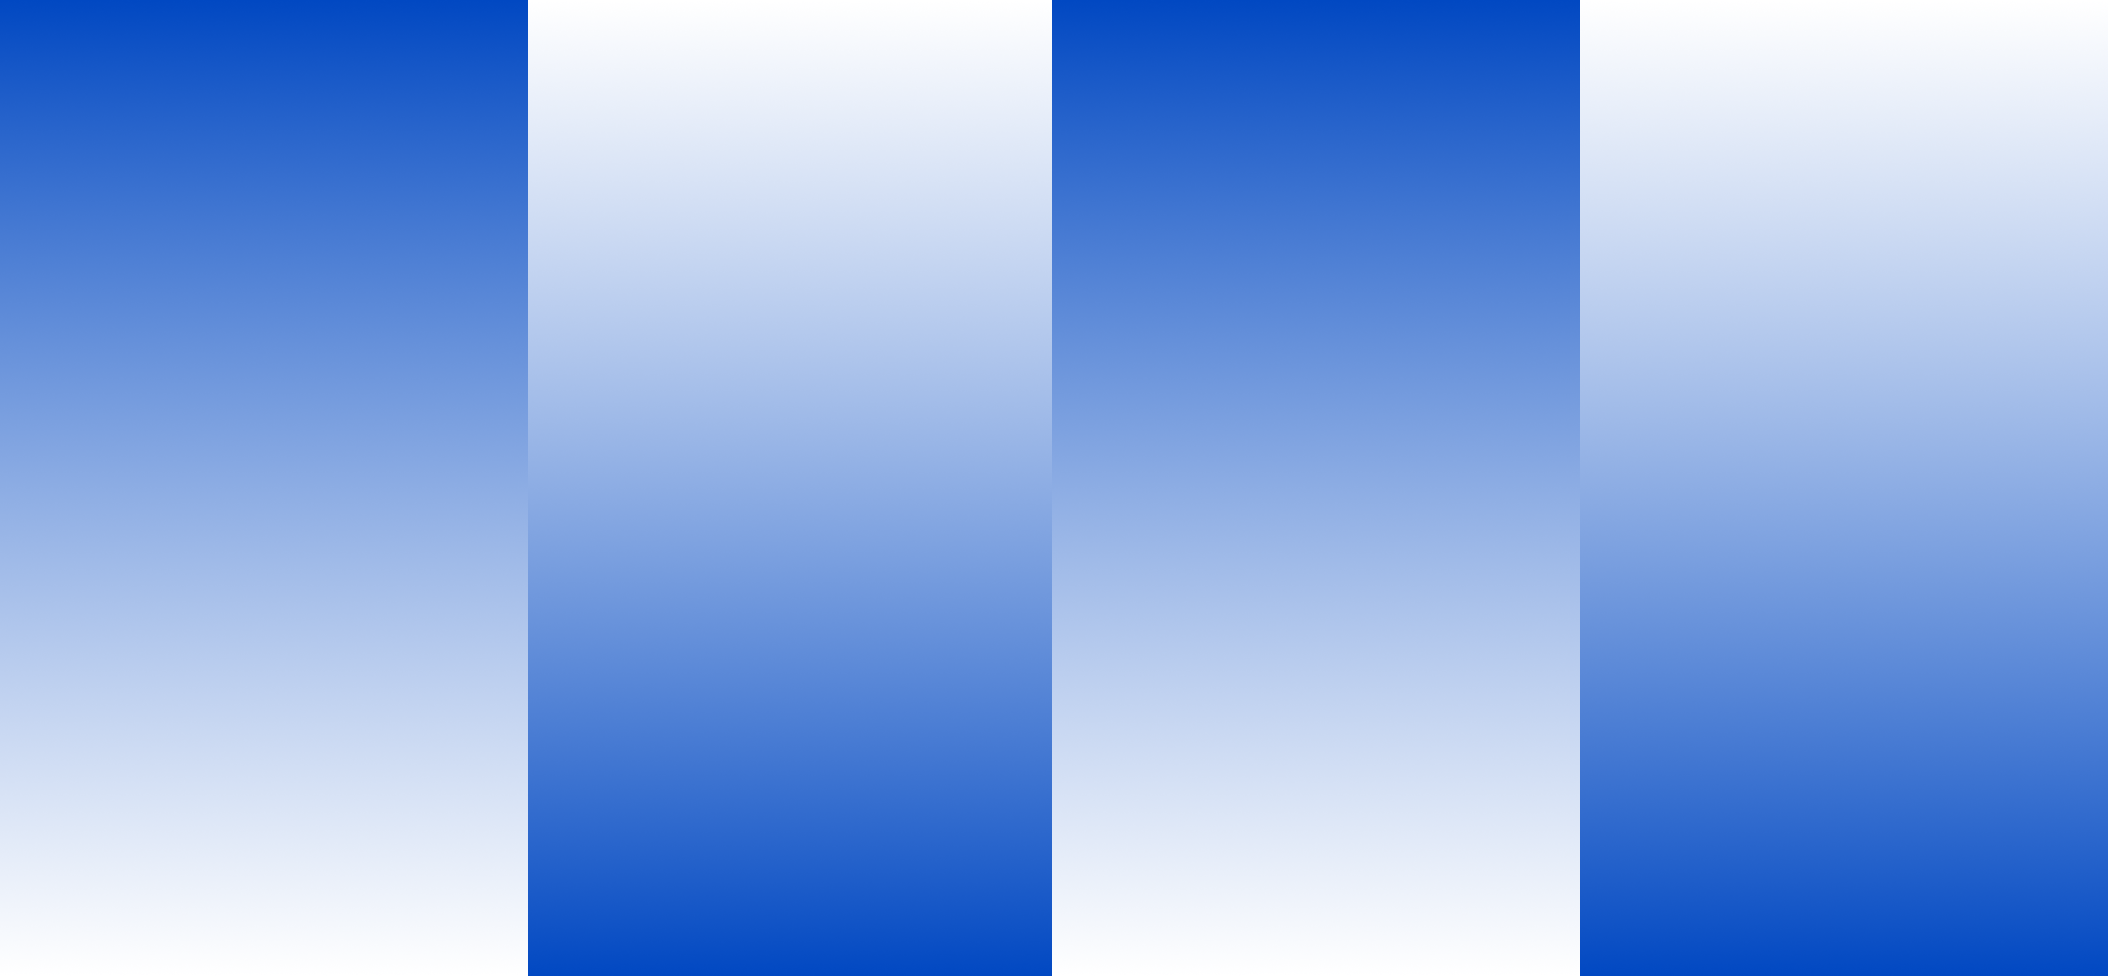
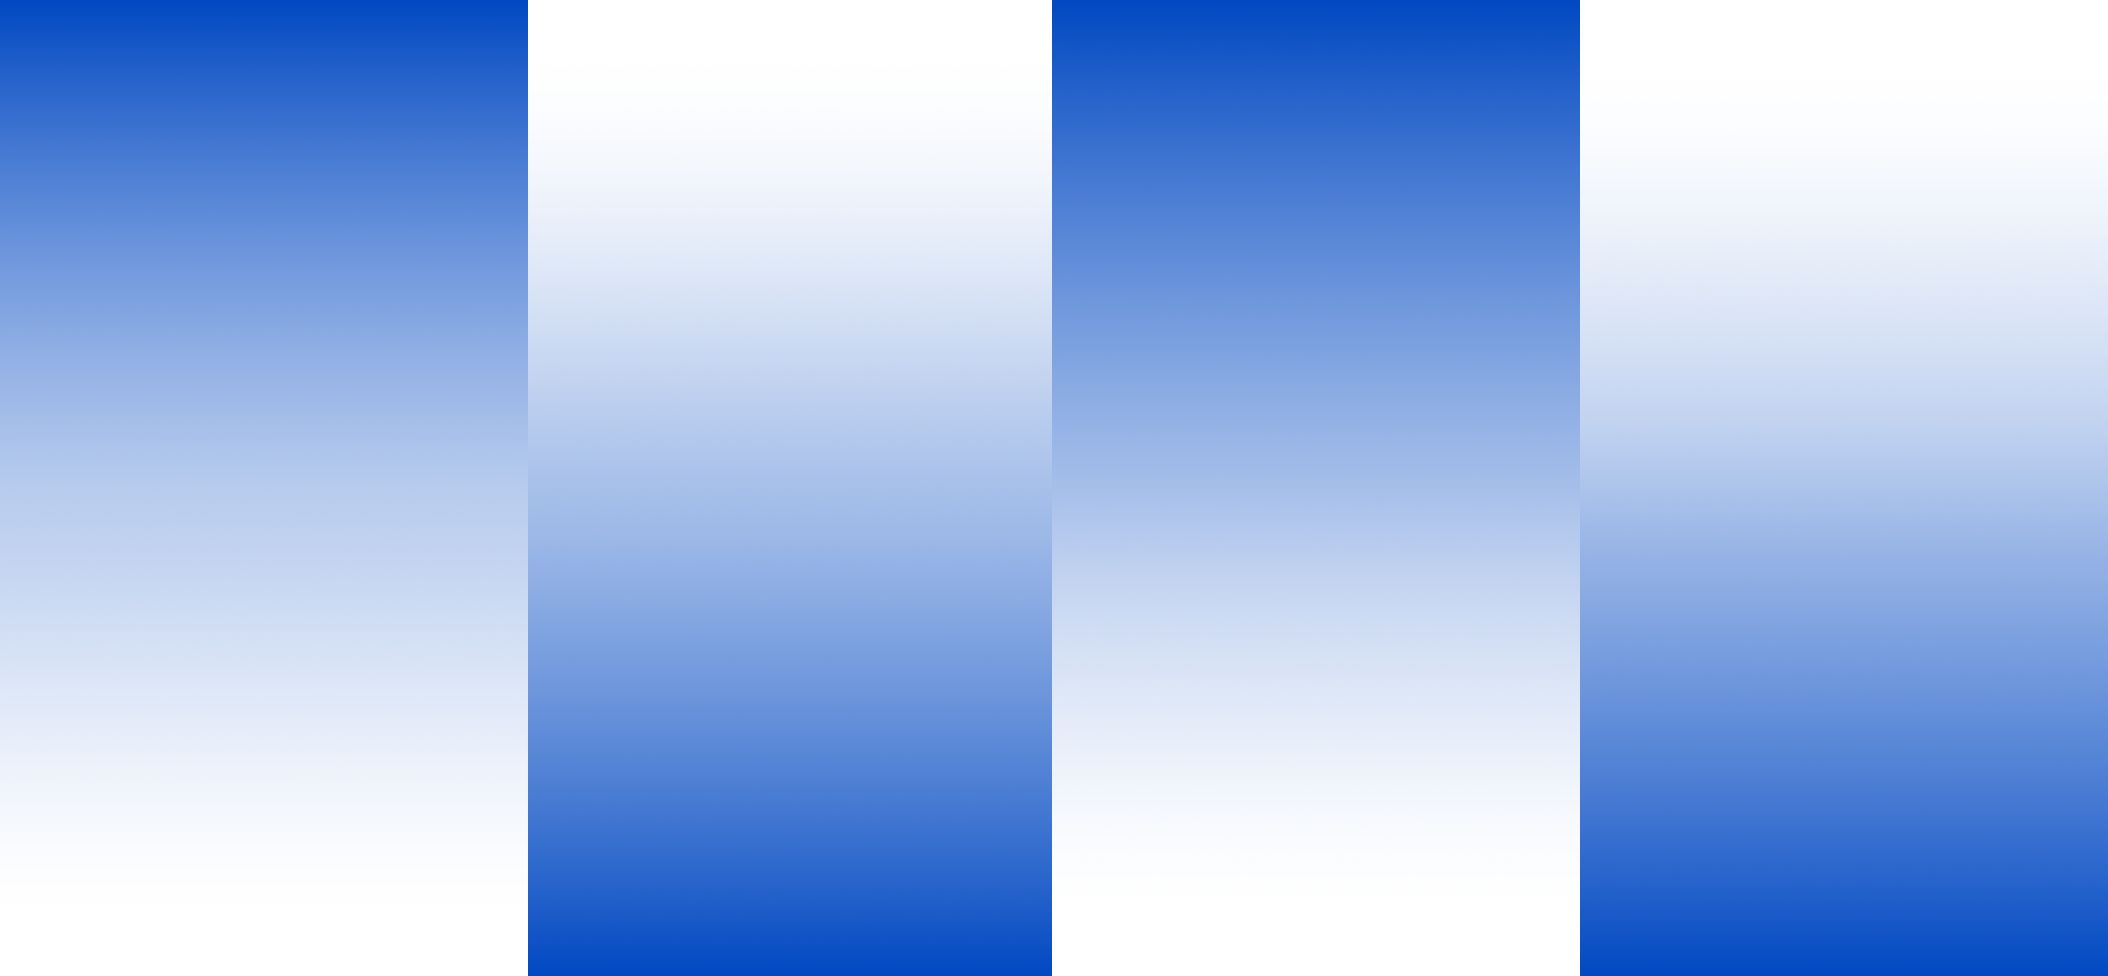
try statistics picture

diff --git a/packages/ui/src/styles/About/abouthero.module.css b/packages/ui/src/styles/About/abouthero.module.css
@@ -76,7 +76,39 @@
   color: rgba(30, 30, 30, 1);
 }
 
-/* ===================== HERO / CONTENT BREAKPOINTS ===================== */
+
+.statsBar {
+  width: 100%;
+  aspect-ratio: 1568 / 726;
+  border-radius: 0;
+  border: none;
+  overflow: hidden;
+  background-image: url('/images/aboutusstatic.png');
+  background-size: 100% 100%;
+  background-repeat: no-repeat;
+  background-position: center;
+  display: grid;
+  grid-template-columns: repeat(4, 1fr);
+}
+
+.statItem {
+  display: flex;
+  flex-direction: column;
+  align-items: flex-start;
+  gap: clamp(3px, 0.8vw, 6px);
+  padding: clamp(10px, 3vw, 28px) clamp(8px, 2.4vw, 24px);
+  border: none;
+  border-radius: 0;
+  min-width: 0;
+}
+
+.statItem:nth-child(odd) {
+  justify-content: flex-start;
+}
+
+.statItem:nth-child(even) {
+  justify-content: flex-end;
+}
 
 @media (max-width: 1280px) {
   .inner {
@@ -206,41 +238,6 @@
     font-size: 13px;
   }
 }
-
-
-.statsBar {
-  width: 100%;
-  aspect-ratio: 1568 / 726;
-  border-radius: 0;
-  border: none;
-  overflow: hidden;
-  background-image: url('/images/aboutusstatic.png');
-  background-size: 100% 100%;
-  background-repeat: no-repeat;
-  background-position: center;
-  display: grid;
-  grid-template-columns: repeat(4, 1fr);
-}
-
-.statItem {
-  display: flex;
-  flex-direction: column;
-  align-items: flex-start;
-  gap: clamp(3px, 0.8vw, 6px);
-  padding: clamp(10px, 3vw, 28px) clamp(8px, 2.4vw, 24px);
-  border: none;
-  border-radius: 0;
-  min-width: 0;
-}
-
-.statItem:nth-child(odd) {
-  justify-content: flex-start;
-}
-
-.statItem:nth-child(even) {
-  justify-content: flex-end;
-}
-
 
 @media (min-width: 1025px) {
   .statItem:nth-child(1) {